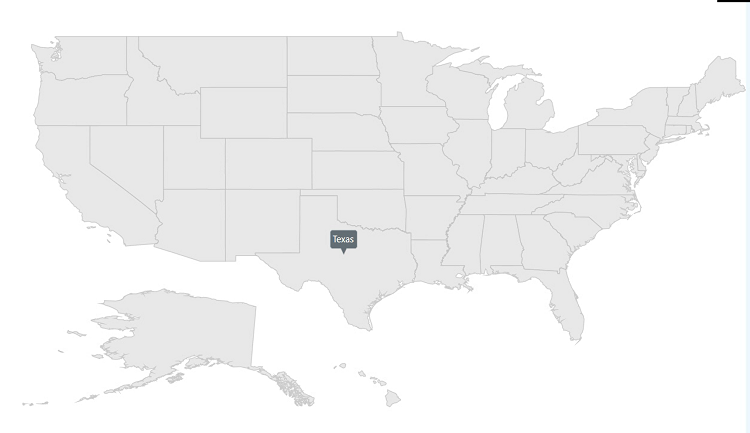
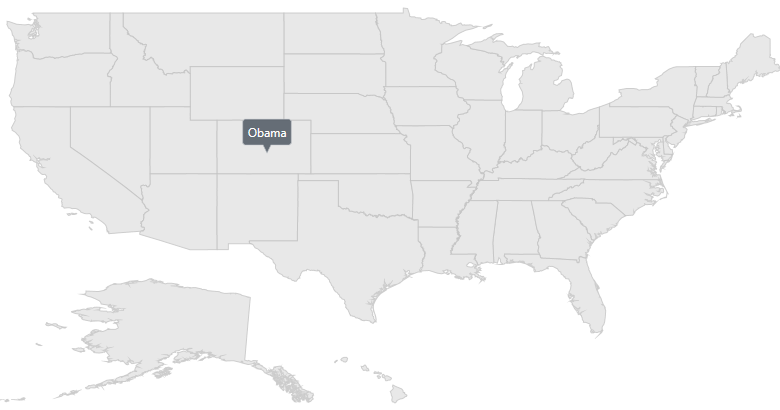
Added tooltip changed and committed

diff --git a/wpf/Maps/Tooltip.md b/wpf/Maps/Tooltip.md
@@ -203,8 +203,8 @@ The maps control provides options to design your own template for tooltip using 
 
 {% highlight xaml %}
 
-          <maps:SfMap x:Name="map">
-            <maps:SfMap.Layers>               
+       <maps:SfMap x:Name="map">
+            <maps:SfMap.Layers>
                 <maps:ShapeFileLayer Uri="MapsZoom.ShapeFiles.usa_state.shp" ItemsSource="{Binding Data}" ShapeIDPath="State" ShapeIDTableField="STATE_NAME" EnableSelection="False" LabelPath="State">
                     <maps:ShapeFileLayer.ItemsTemplate>
                         <DataTemplate>
@@ -231,7 +231,7 @@ The maps control provides options to design your own template for tooltip using 
                         </maps:BubbleMarkerSetting>
                     </maps:ShapeFileLayer.BubbleMarkerSetting>
                 </maps:ShapeFileLayer>
-			</maps:SfMap.Layers>
+            </maps:SfMap.Layers>
         </maps:SfMap>
 
 {% endhighlight %}
@@ -308,31 +308,31 @@ The maps control provides options to design your own template for tooltip using 
 
 {% highlight xaml %}
 
-          <maps:SfMap>
-            <maps:SfMap.Layers>
-                <maps:ShapeFileLayer Uri="MapsZoom.ShapeFiles.usa_state.shp" ItemsSource="{Binding Data}" ShapeIDPath="State" ShapeIDTableField="STATE_NAME" EnableSelection="False" LabelPath="State">
-                   <maps:ShapeFileLayer.ItemsTemplate>
-                        <DataTemplate>
-                            <Border >
-                                <TextBlock FontFamily="Segoe UI" FontSize="12" Foreground="#FF333333"  Text=""/>
-                            </Border>
-                        </DataTemplate>
-                    </maps:ShapeFileLayer.ItemsTemplate>
-                    <maps:ShapeFileLayer.MarkerToolTipSettings>
-                        <maps:ToolTipSetting  ValuePath="Name"></maps:ToolTipSetting>
-                    </maps:ShapeFileLayer.MarkerToolTipSettings>
-                     <maps:ShapeFileLayer.MarkerTemplate>
-                        <DataTemplate>
-                            <Grid Margin="-12,-30,0,0">
-                                <Canvas>
-                                    <Image Source="pin.png" Height="30"/>
-                                </Canvas>
-                            </Grid>
-                        </DataTemplate>
-                    </maps:ShapeFileLayer.MarkerTemplate>
-                </maps:ShapeFileLayer>
-            </maps:SfMap.Layers>
-        </maps:SfMap>
+    <maps:SfMap>
+        <maps:SfMap.Layers>
+            <maps:ShapeFileLayer Uri="MapsZoom.ShapeFiles.usa_state.shp" Markers="{Binding Models}" >
+                <maps:ShapeFileLayer.ItemsTemplate>
+                    <DataTemplate>
+                        <Border >
+                            <TextBlock FontFamily="Segoe UI" FontSize="12" Foreground="#FF333333"  Text=""/>
+                        </Border>
+                    </DataTemplate>
+                </maps:ShapeFileLayer.ItemsTemplate>
+                <maps:ShapeFileLayer.MarkerToolTipSettings>
+                    <maps:ToolTipSetting  ValuePath="Name"></maps:ToolTipSetting>
+                </maps:ShapeFileLayer.MarkerToolTipSettings>
+                <maps:ShapeFileLayer.MarkerTemplate>
+                    <DataTemplate>
+                        <Grid Margin="-12,-30,0,0">
+                            <Canvas>
+                                <Image Source="pin.png" Height="30"/>
+                            </Canvas>
+                        </Grid>
+                    </DataTemplate>
+                </maps:ShapeFileLayer.MarkerTemplate>
+            </maps:ShapeFileLayer>
+        </maps:SfMap.Layers>
+    </maps:SfMap>
 
 {% endhighlight %}
 
